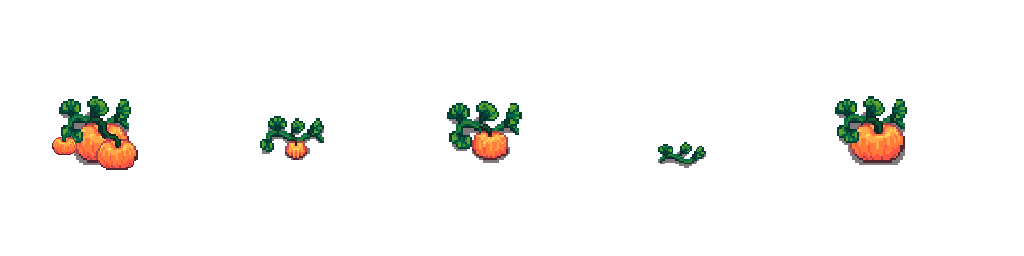
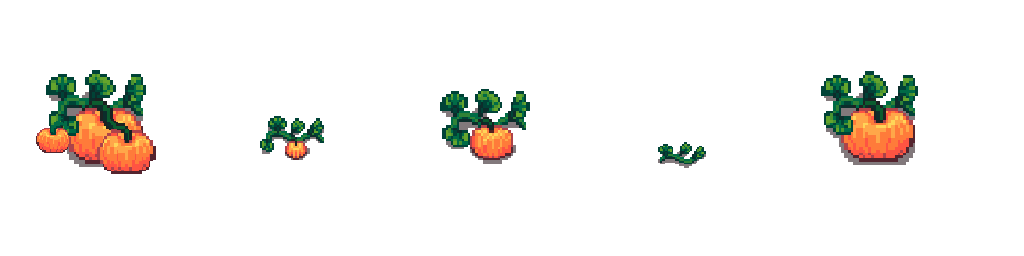
Added more plant types.

Changed region(s): [[0.0312, 0.2812, 0.1562, 0.6875], [0.7812, 0.2812, 0.9062, 0.6562], [0.4062, 0.3438, 0.5312, 0.6562]]

diff --git a/core/src/com/gamegroup/farmstedfortress/com/farmsteadfortress/entities/plants/types/CornPlant.java b/core/src/com/gamegroup/farmstedfortress/com/farmsteadfortress/entities/plants/types/CornPlant.java
@@ -9,17 +9,18 @@ import com.farmsteadfortress.projectiles.Projectile;
 import com.farmsteadfortress.projectiles.ProjectileManager;
 import com.farmsteadfortress.render.Tile;
 
-public class PumpkinPlant extends Plant {
+public class CornPlant extends Plant {
     private TextureAtlas atlas;
     private float timeBetweenAttacks;
     private float timeSinceLastAttack = 0;
     private int attackDamage;
+    private int numberOfProjectiles = 3;
     private ProjectileManager projectileManager;
     private TextureRegion projectileTexture, projectileHitTexture;
 
-    public PumpkinPlant(float growTime, Vector2 position, int health, int attackDamage, float attackSpeed,
-                        float attackRange, float timeBetweenAttacks, Tile tile, TextureAtlas atlas, TextureAtlas projectileAtlas, ProjectileManager projectileManager) {
-        super(growTime, position, health, attackDamage, attackSpeed, attackRange, tile, "Pumpkin");
+    public CornPlant(float growTime, Vector2 position, int health, int attackDamage, float attackSpeed,
+                     float attackRange, float timeBetweenAttacks, Tile tile, TextureAtlas atlas, TextureAtlas projectileAtlas, ProjectileManager projectileManager) {
+        super(growTime, position, health, attackDamage, attackSpeed, attackRange, tile, "Corn");
         this.atlas = atlas;
         this.timeBetweenAttacks = timeBetweenAttacks;
         this.attackDamage = attackDamage;
@@ -34,16 +35,17 @@ public class PumpkinPlant extends Plant {
         attackDamage += 10;
         timeBetweenAttacks -= 2;
         attackRange *= 1.5f;
+        numberOfProjectiles += 1;
         currentStage = GrowthStage.UPGRADE;
     }
 
     @Override
     protected void initialiseTextures() {
         textures.put(GrowthStage.SEEDLING, atlas.findRegion("sprout"));
-        textures.put(GrowthStage.SPROUT, atlas.findRegion("small_pumpkin"));
-        textures.put(GrowthStage.SMALL_PLANT, atlas.findRegion("medium_pumpkin"));
-        textures.put(GrowthStage.ADULT, atlas.findRegion("large_pumpkin"));
-        textures.put(GrowthStage.UPGRADE, atlas.findRegion("upgrade_pumpkin"));
+        textures.put(GrowthStage.SPROUT, atlas.findRegion("small_corn"));
+        textures.put(GrowthStage.SMALL_PLANT, atlas.findRegion("medium_corn"));
+        textures.put(GrowthStage.ADULT, atlas.findRegion("large_corn"));
+        textures.put(GrowthStage.UPGRADE, atlas.findRegion("corn_upgrade"));
     }
 
     @Override
@@ -51,18 +53,9 @@ public class PumpkinPlant extends Plant {
         timeSinceLastAttack += delta;
         if (timeSinceLastAttack >= timeBetweenAttacks && !enemy.isDead()) {
             Vector2 direction = new Vector2(enemy.getPosition().x - position.x, enemy.getPosition().y - position.y);
-            Vector2[] projectilePositions = {
-                    new Vector2(this.position.x + Tile.TILE_SIZE / 2f, this.position.y + 10f + Tile.TILE_SIZE),
-                    new Vector2(this.position.x + Tile.TILE_SIZE / 2f + 5, this.position.y + 10f + Tile.TILE_SIZE + 5),
-                    new Vector2(this.position.x + Tile.TILE_SIZE / 2f + 10, this.position.y + 10f + Tile.TILE_SIZE + 10)
-            };
-            for (Vector2 projectilePosition : projectilePositions) {
+            Vector2 projectilePosition = new Vector2(this.position.x + Tile.TILE_SIZE / 2f, this.position.y + 10f + Tile.TILE_SIZE);
+            for (int i = 0; i < numberOfProjectiles; i++) {
                 projectileManager.addProjectile(new Projectile(projectilePosition, direction, projectileTexture, projectileHitTexture, attackDamage, 200f, enemy));
-                try {
-                    Thread.sleep(100);
-                } catch (InterruptedException e) {
-                    e.printStackTrace();
-                }
             }
             timeSinceLastAttack = 0;
         }

diff --git a/core/src/com/gamegroup/farmstedfortress/com/farmsteadfortress/entities/plants/PlantFactory.java b/core/src/com/gamegroup/farmstedfortress/com/farmsteadfortress/entities/plants/PlantFactory.java
@@ -5,6 +5,7 @@ import com.badlogic.gdx.graphics.g2d.TextureAtlas;
 import com.badlogic.gdx.math.Vector2;
 import com.farmsteadfortress.entities.Player;
 import com.farmsteadfortress.entities.plants.types.CauliflowerFlower;
+import com.farmsteadfortress.entities.plants.types.CornPlant;
 import com.farmsteadfortress.entities.plants.types.FernPlant;
 import com.farmsteadfortress.entities.plants.types.PumpkinPlant;
 import com.farmsteadfortress.entities.plants.types.TomatoPlant;
@@ -18,6 +19,8 @@ public class PlantFactory {
     private static TextureAtlas cauliflowerAtlas = new TextureAtlas(Gdx.files.internal("objects/cauliflower/CauliflowerAtlas.atlas"));
     private static TextureAtlas pumpkinAtlas = new TextureAtlas(Gdx.files.internal("objects/pumpkin/PumpkinAtlas.atlas"));
     private static TextureAtlas pumpkinProjectileAtlas = new TextureAtlas(Gdx.files.internal("objects/pumpkin/PumpkinProjectileAtlas.atlas"));
+    private static TextureAtlas cornAtlas = new TextureAtlas(Gdx.files.internal("objects/corn/CornAtlas.atlas"));
+    private static TextureAtlas cornProjectileAtlas = new TextureAtlas(Gdx.files.internal("objects/corn/CornProjectile.atlas"));
     private static Player player;
 
     public static Plant createPlant(Plant.PlantType plantType, Tile tile, Player player, ProjectileManager projectileManager) {
@@ -30,6 +33,8 @@ public class PlantFactory {
                 return createCauliflowerPlant(tile, player);
             case PUMPKIN:
                 return createPumpkinPlant(tile, projectileManager);
+            case CORN:
+                return createCornPlant(tile, projectileManager);
             default:
                 return null;
         }
@@ -72,5 +77,16 @@ public class PlantFactory {
         float timeBetweenAttacks = 1f;
         Vector2 position = new Vector2(tile.worldPos.x, tile.worldPos.y);
         return new PumpkinPlant(growTime, position, health, damage, attackSpeed, attackRange, timeBetweenAttacks, tile, pumpkinAtlas, pumpkinProjectileAtlas, projectileManager);
+    }
+
+    private static CornPlant createCornPlant(Tile tile, ProjectileManager projectileManager) {
+        float growTime = 1.5f;
+        int health = 120;
+        int damage = 5;
+        float attackSpeed = 0.7f;
+        float attackRange = 650f;
+        float timeBetweenAttacks = 2f;
+        Vector2 position = new Vector2(tile.worldPos.x, tile.worldPos.y);
+        return new CornPlant(growTime, position, health, damage, attackSpeed, attackRange, timeBetweenAttacks, tile, cornAtlas, cornProjectileAtlas, projectileManager);
     }
 }

diff --git a/core/src/com/gamegroup/farmstedfortress/com/farmsteadfortress/waves/WaveController.java b/core/src/com/gamegroup/farmstedfortress/com/farmsteadfortress/waves/WaveController.java
@@ -42,8 +42,6 @@ public class WaveController {
             waveStarted = true;
             timeSinceLastSpawn = 0;
             currentWave = generateNextWave();
-        } else {
-            System.out.println("Cannot start new wave until current wave is over");
         }
     }
 
@@ -64,7 +62,6 @@ public class WaveController {
             }
             if (isWaveOver()) {
                 waveStarted = false;
-                System.out.println("End of round " + currentWave.getWaveNumber());
                 currentWave = generateNextWave();
             }
         }

diff --git a/core/src/com/gamegroup/farmstedfortress/com/farmsteadfortress/entities/Player.java b/core/src/com/gamegroup/farmstedfortress/com/farmsteadfortress/entities/Player.java
@@ -278,7 +278,6 @@ public class Player {
     }
 
     public void attack(Enemy enemy) {
-        System.out.println("attacked");
         enemy.attacked(attackDamage);
         timeSinceLastAttack = 0f;
     }
@@ -353,15 +352,11 @@ public class Player {
     public void attacked(int damage) {
         health -= damage;
         if (isDead()) {
-            die();
+            //die();
         }
     }
 
     public boolean isDead() {
         return health <= 0;
-    }
-
-    private void die() {
-        System.out.println("died");
     }
 }

diff --git a/core/src/com/gamegroup/farmstedfortress/com/farmsteadfortress/ui/ShopUI.java b/core/src/com/gamegroup/farmstedfortress/com/farmsteadfortress/ui/ShopUI.java
@@ -92,7 +92,6 @@ public class ShopUI {
                     if (isOpen && player.getMoney() >= seed.getPrice()) {
                         player.addMoney(-5);
                         inventory.addItem(seed);
-                        inventory.printInventory();
                     } else {
                         String message = "You cannot afford this. You have " + player.getMoney() + " dollars.";
                         Helpers.showDialog(stage, "Insufficient Funds", message);

diff --git a/core/src/com/gamegroup/farmstedfortress/com/farmsteadfortress/items/seeds/CornSeed.java b/core/src/com/gamegroup/farmstedfortress/com/farmsteadfortress/items/seeds/CornSeed.java
@@ -1,0 +1,11 @@
+package com.farmsteadfortress.items.seeds;
+
+import com.badlogic.gdx.Gdx;
+import com.badlogic.gdx.graphics.Texture;
+import com.farmsteadfortress.entities.plants.Plant;
+
+public class CornSeed extends Seed {
+    public CornSeed() {
+        super(ItemType.SEED, "Corn Seed", 8, new Texture(Gdx.files.internal("gui/corn-shop.png")), new Texture(Gdx.files.internal("gui/hotbar-corn.png")), 10, Plant.PlantType.CORN);
+    }
+}

diff --git a/core/src/com/gamegroup/farmstedfortress/com/farmsteadfortress/render/TileMap.java b/core/src/com/gamegroup/farmstedfortress/com/farmsteadfortress/render/TileMap.java
@@ -427,7 +427,6 @@ public class TileMap {
                     case WATER:
                         Texture selectedTexture = waterFar;
 
-                        // Here you can add as many distances as you want, with corresponding checks
                         int[] distancesFromLand = {1, 3, 5, 7};
                         boolean leftNeighborIsLand = false;
                         boolean rightNeighborIsLand = false;

diff --git a/core/src/com/gamegroup/farmstedfortress/com/farmsteadfortress/items/seeds/Seed.java b/core/src/com/gamegroup/farmstedfortress/com/farmsteadfortress/items/seeds/Seed.java
@@ -18,7 +18,7 @@ public abstract class Seed extends Item {
     }
 
     public static List<Seed> getSeedTypes() {
-        return Arrays.asList(new TomatoSeed(), new CauliflowerSeed(), new PumpkinSeed());
+        return Arrays.asList(new TomatoSeed(), new CauliflowerSeed(), new PumpkinSeed(), new CornSeed());
     }
     public Plant.PlantType getPlantType() {
         return plantType;

diff --git a/core/src/com/gamegroup/farmstedfortress/com/farmsteadfortress/entities/enemies/Enemy.java b/core/src/com/gamegroup/farmstedfortress/com/farmsteadfortress/entities/enemies/Enemy.java
@@ -153,7 +153,7 @@ public abstract class Enemy {
 
     public boolean isHitBy(Projectile projectile) {
         float distance = this.getPosition().dst(projectile.getPosition());
-        float totalRadius = boundingBox.width / 2 + projectile.getRadius();
+        float totalRadius = boundingBox.width / 4 + projectile.getRadius();
 
         return distance <= totalRadius;
     }

diff --git a/core/src/com/gamegroup/farmstedfortress/com/farmsteadfortress/inventory/Inventory.java b/core/src/com/gamegroup/farmstedfortress/com/farmsteadfortress/inventory/Inventory.java
@@ -22,13 +22,6 @@ public class Inventory {
         return items;
     }
 
-    public void printInventory() {
-        System.out.println("Inventory contents:");
-        for (Item item : items) {
-            System.out.println(item.getName());
-        }
-    }
-
     public boolean contains(Item selectedItem) {
         return items.contains(selectedItem, true);
     }

diff --git a/core/src/com/gamegroup/farmstedfortress/com/farmsteadfortress/projectiles/Projectile.java b/core/src/com/gamegroup/farmstedfortress/com/farmsteadfortress/projectiles/Projectile.java
@@ -67,7 +67,6 @@ public class Projectile {
     }
 
     public void onHit() {
-        System.out.println(!target.isHit());
         if (!target.isHit()) {
             target.setHitBy(this);
             target.attacked(damage);

diff --git a/core/src/com/gamegroup/farmstedfortress/com/farmsteadfortress/entities/plants/Plant.java b/core/src/com/gamegroup/farmstedfortress/com/farmsteadfortress/entities/plants/Plant.java
@@ -23,7 +23,9 @@ public abstract class Plant {
     public enum PlantType {
         TOMATO,
         CAULIFLOWER,
-        PUMPKIN, FERN
+        PUMPKIN,
+        CORN,
+        FERN
     }
 
     protected Texture texture;
